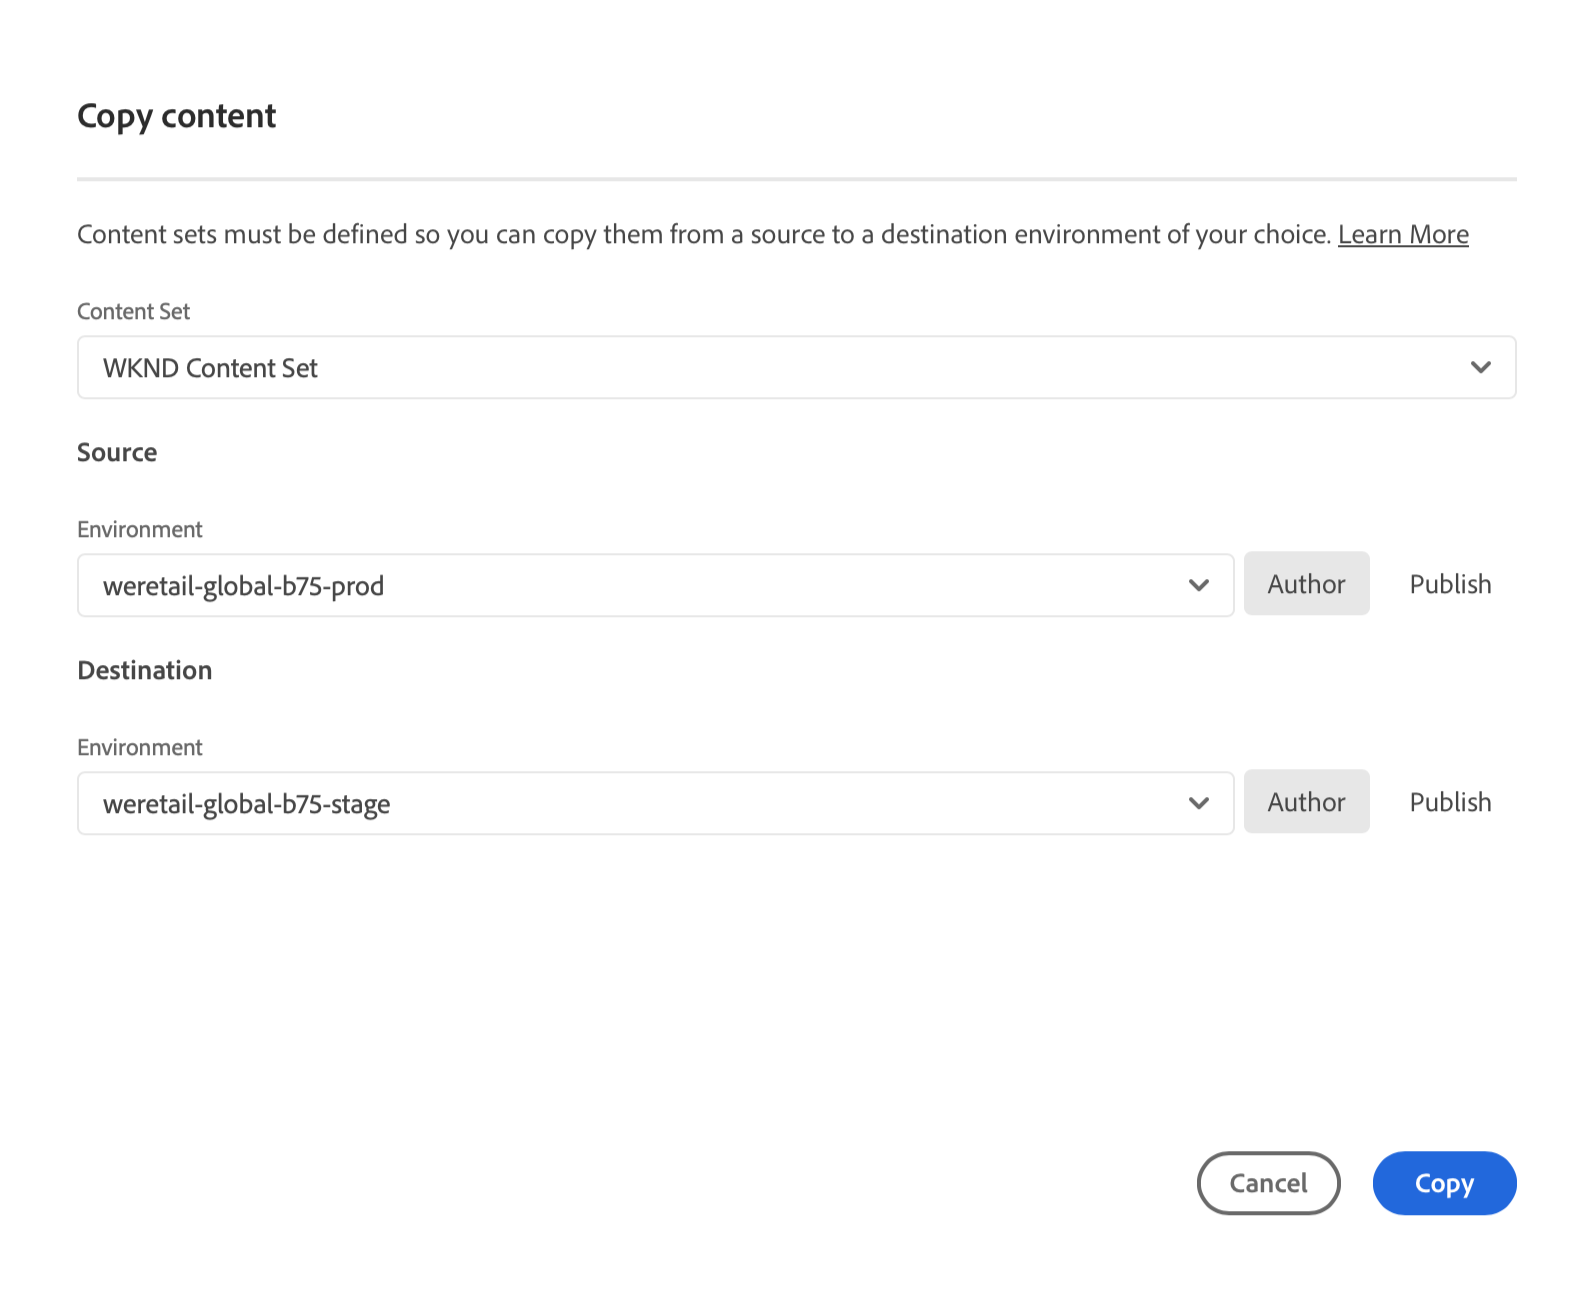
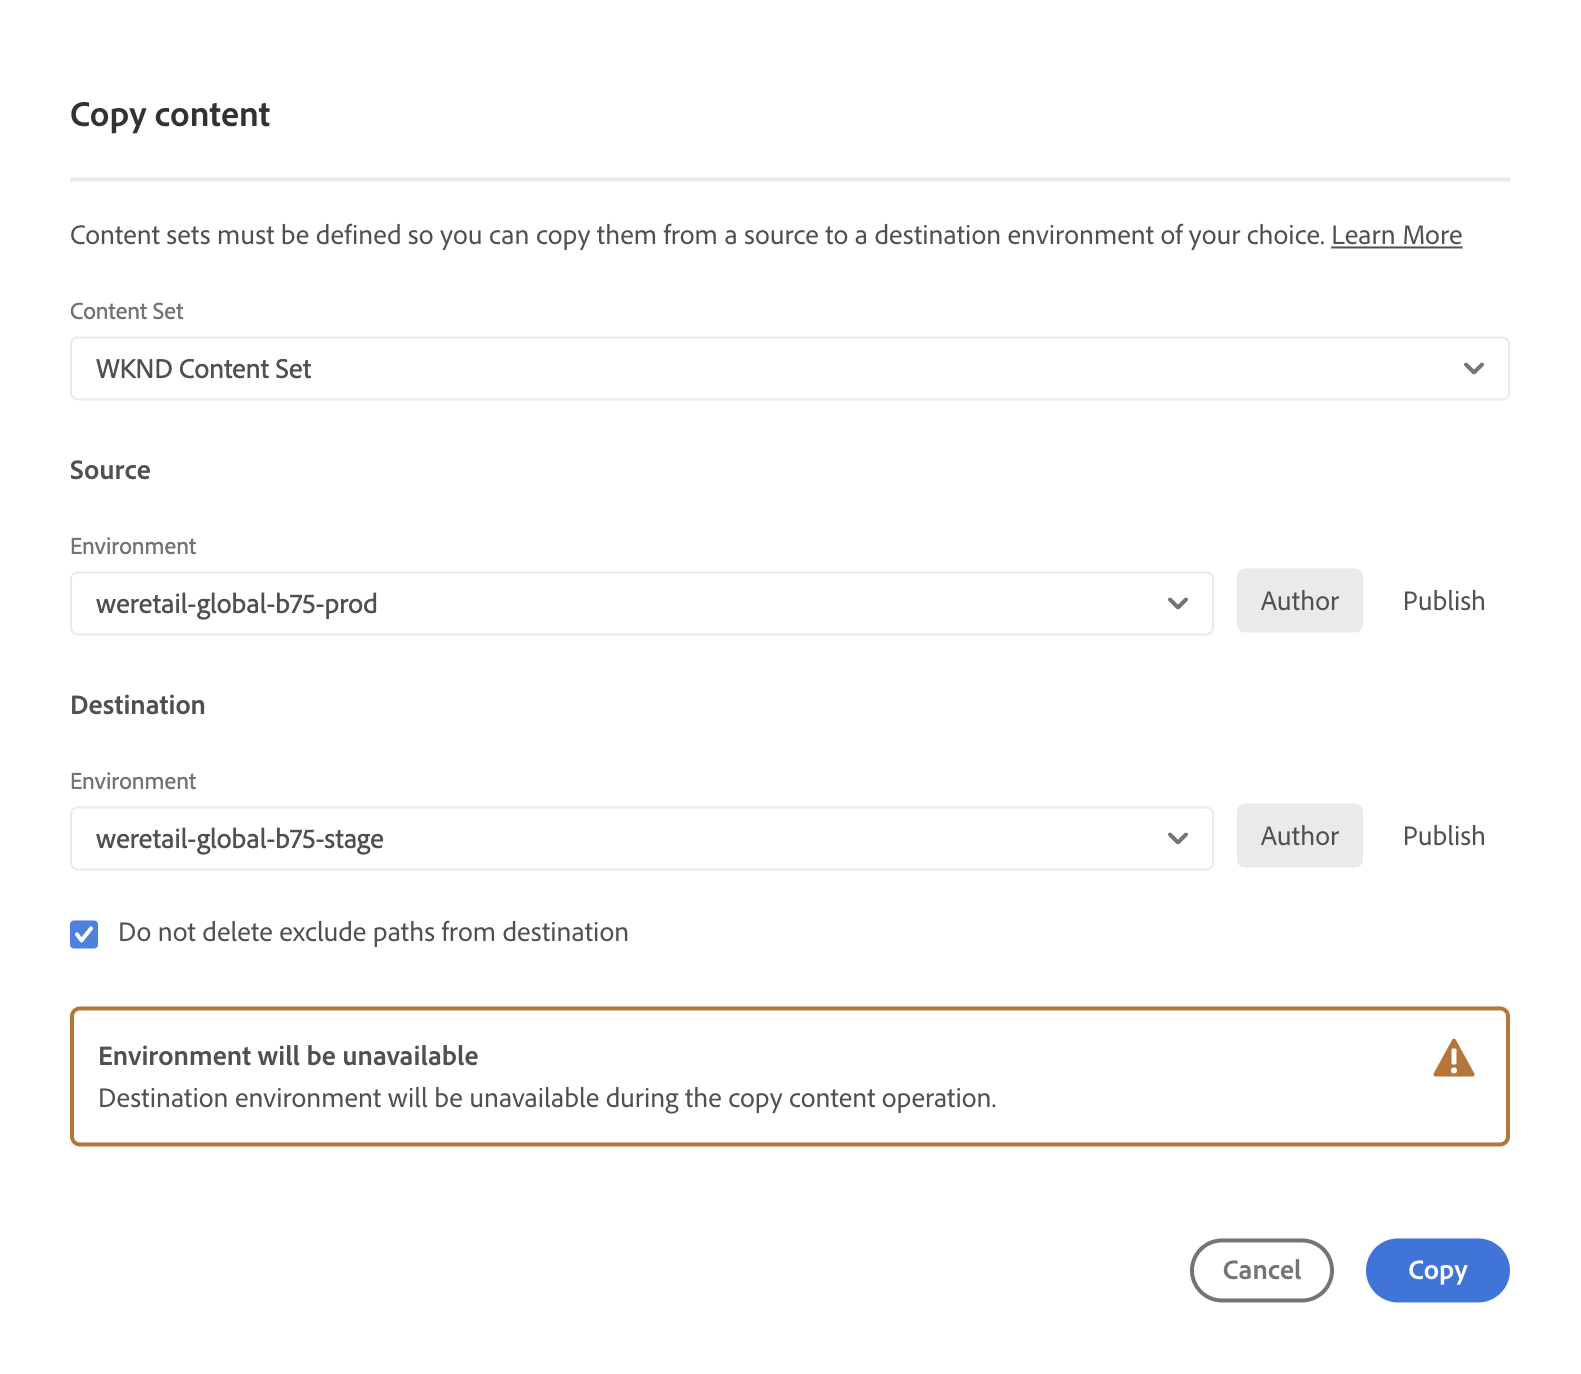
Update doc to reflect new features in copy content dialog

diff --git a/help/using/content-copy.md b/help/using/content-copy.md
@@ -75,6 +75,11 @@ Before any content can be copied, a content set must be defined. Once defined, c
 
 The content set can now be used to copy content between environments.
 
+   >[!NOTE]
+   >
+   >You can add upto 50 paths in a content set.
+   >There is no limitation on excluded paths.
+
 ## Editing a Content Set {#edit-content-set}
 
 Follow similar steps as when creating a content step. Instead of tapping or clicking **Add Content Set**, select an existing set from the console and select **Edit** from the ellipsis menu.
@@ -93,7 +98,7 @@ Once a content set has been created, you can use it to copy content. Follow thes
 
 1. Navigate to the **Content Sets** page from the **Environments** screen.
 
-1. Select an content set from the console and select **Copy Content** from the ellipsis menu.
+1. Select a content set from the console and select **Copy Content** from the ellipsis menu.
 
    ![Content copy](/help/assets/copy-content.png)
 
@@ -105,6 +110,8 @@ Once a content set has been created, you can use it to copy content. Follow thes
    >* The environment has a running pipeline or a copy content operation in progress.
 
 1. In the **Copy content** dialog, specify the source and destination for your content copy action.
+
+1. You can choose to delete or retain the exclude paths in target environment. Select checkbox `Do not delete exclude paths from destination` if you wish to retain the exclude paths specified in the content set. If checkbox is left unchecked, then exclude paths are deleted in target environment.   
 
    ![Copying content](/help/assets/copying-content.png)
 
@@ -143,7 +150,7 @@ The content copy tool has the following limitations.
 * Cross-program content copy is not possible.
 * Running concurrent content copy operations on the same environment is not possible.
 * Content copy can not be performed if there is any active operation running on either the destination or source environment such as a CI/CD pipeline.
-* Up to ten paths can be specified per content set. There is no limitation on excluded paths.
+* Up to fifty paths can be specified per content set. There is no limitation on excluded paths.
 * The content copy tool should not be used as a cloning or mirroring tool because it can not track moved or deleted content on the source.
 * The content copy tool has no versioning capability and can not automatically detect modified content or newly created content on the source environment in a content set since the last content copy operation.
   * If you wish to update your destination environment with content changes only since the last content copy operation you need to create a content set. In that set, specify the paths on the source instance where changes were made since the last content copy operation.
